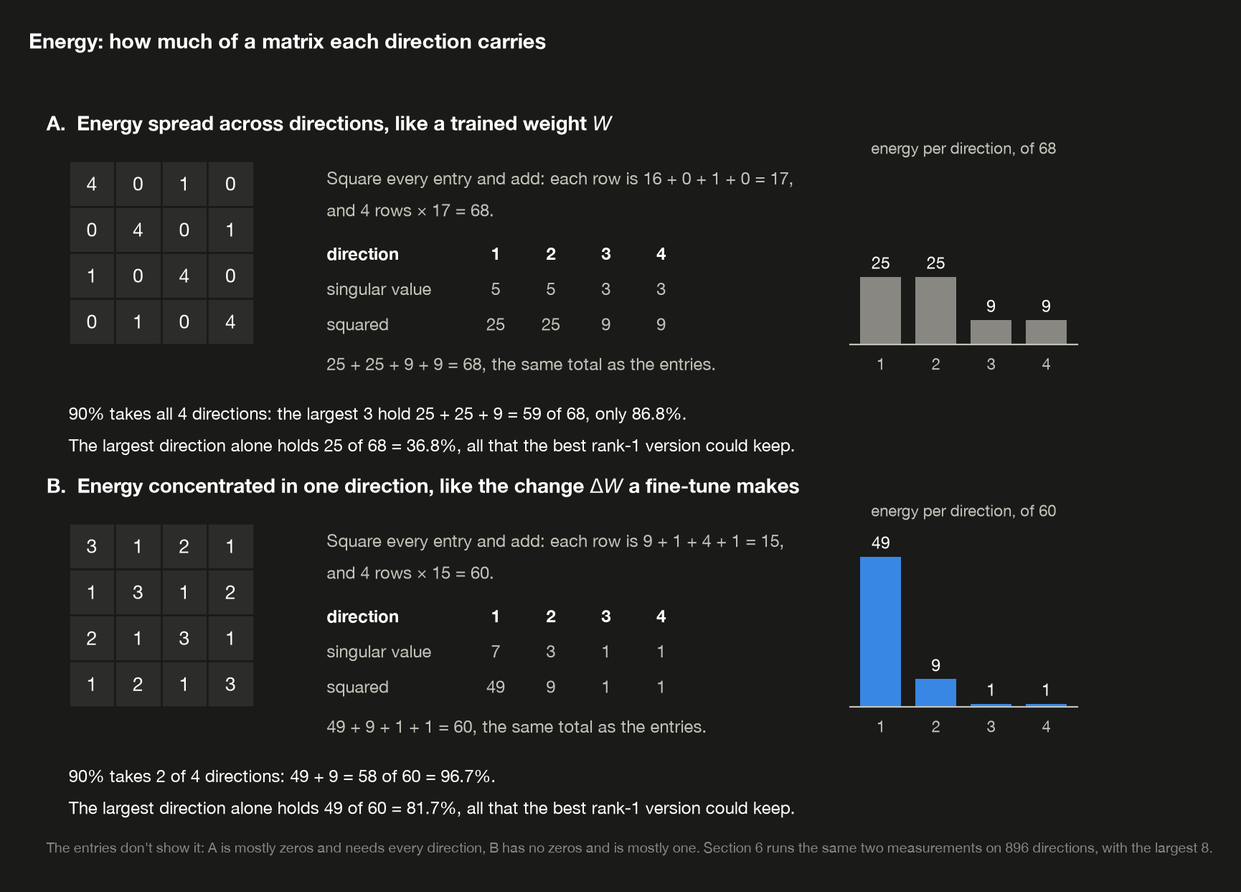
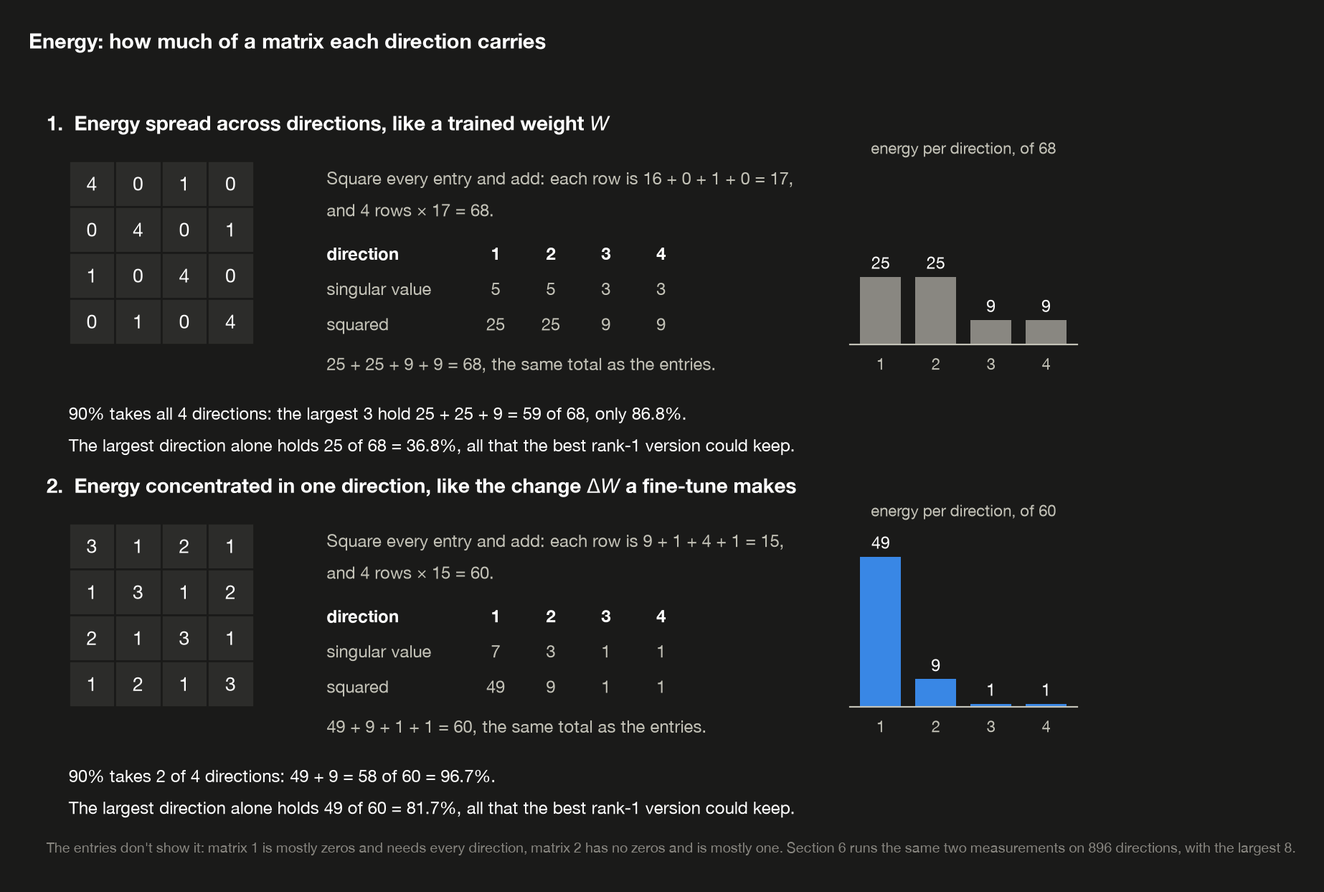
Post 6: end-to-end read for a first-time reader
Accuracy: AdamW's second moment evens out steps rather than shrinking big
ones; Kalajdzievski's argument is about fixed alpha, which this post's
alpha = 2r sidesteps; 92 GiB fits some GPUs, so say 80 GB; a mixed batch
costs time, not compute; the no-latency claim holds only once merged;
exact match's notation row said held-out and share; optimizer state vs
training state vs model state named consistently.
Grounding: rank 'behaves like' capacity; forgetting and full-fine-tune
claims scoped to these runs; AdaLoRA and vLLM cited where named.
Readability: §3's figure paragraph split into six; energy figure's
matrices numbered so they don't collide with LoRA's A and B; post 2
linked; RMSNorm (undefined here) replaced in the appendix.

diff --git a/_posts/2026-09-26-llm-architectures-lora.md b/_posts/2026-09-26-llm-architectures-lora.md
@@ -34,7 +34,7 @@ Three findings are about cost:
 
 - **The adapter is 0.89% of the model**: 4,399,104 parameters, **16.8 MiB** ([§3](#where-the-adapters-go)).
 - **But model-state memory falls 3.9×, not 112×.** The gradients and optimizer state go away; the frozen weights don't, and under this post's fp32 accounting that keeps the saving below 4×. That counts weights, gradients and optimizer moments only; activations come on top ([§4](#where-memory-goes)).
-- **And a step gets about three times faster, not a hundred.** The backward pass still carries the gradient through every frozen weight, and most of the time saved is the optimizer's ([§4](#what-training-costs)).
+- **And a step gets about three times faster, not a hundred.** The backward pass still carries the gradient through every frozen weight, and most of the time saved is the optimizer's ([§4](#where-the-time-goes)).
 
 Three are about what rank buys:
 
@@ -44,9 +44,9 @@ Three are about what rank buys:
 
 And three are about living with it:
 
-- **On these tasks LoRA didn't forget less.** At the learning rate each needs, a rank-8 adapter and a full fine-tune disturbed unrelated text about equally. Forgetting grew with rank, and a full fine-tune at LoRA's learning rate wrecked it ([§6](#what-it-forgot)).
+- **On these tasks LoRA didn't forget less.** At the learning rate each needs, a rank-8 adapter disturbed unrelated text about as much as a full fine-tune did, and slightly more on one task. Forgetting grew with rank, and a full fine-tune at LoRA's learning rate wrecked it ([§6](#what-it-forgot)).
 - **Merging is exact enough to be free.** Folding the adapter into the weights moves the largest logit by 2.6e-06 of its size and doesn't change the predicted token. Kept separate, it costs 1.16× to 1.21× a merged forward pass ([§7](#merging)).
-- **Fifty fine-tunes cost 92.0 GiB; fifty adapters over one base cost 2.66 GiB**, **34.6× less**. One batch can serve several adapters at once, for about a fifth more compute per forward pass ([§8](#fifty-finetunes)).
+- **Fifty fine-tunes cost 92.0 GiB; fifty adapters over one base cost 2.66 GiB**, **34.6× less**. One batch can serve several adapters at once, for about a fifth more time per forward pass ([§8](#fifty-finetunes)).
 
 ### The thing that makes fine-tuning expensive
 
@@ -54,7 +54,7 @@ Training keeps three more numbers for every parameter, on top of the weight itse
 
 The **gradient** is the first: for each weight, a number saying which way a small change would make the model's error worse, and by how much, computed from how wrong the model was on the current batch. Training steps each weight the opposite way. It's one number per weight, so it takes as much memory as the weights do.
 
-The other two belong to the optimizer, the rule that turns gradients into changes to the weights. **AdamW**, the optimizer almost everything uses, keeps two running averages for every weight, and they do different jobs. The running average of the gradient (its "first moment") smooths the *direction*: a raw gradient is noisy, one batch says move left and the next says move right, and averaging cancels the flip-flopping. The running average of the gradient *squared* (its "second moment") sets each weight's *step size*: AdamW divides each step by its square root, so a weight whose gradients run large takes proportionally smaller steps, and one whose gradients run small takes larger ones. That's two more numbers per parameter.
+The other two belong to the optimizer, the rule that turns gradients into changes to the weights. **AdamW**, the optimizer almost everything uses, keeps two running averages for every weight, and they do different jobs. The running average of the gradient (its "first moment") smooths the *direction*: a raw gradient is noisy, one batch says move left and the next says move right, and averaging cancels the flip-flopping. The running average of the gradient *squared* (its "second moment") sets each weight's *step size*: AdamW divides each step by its square root, which scales every weight's step to the size of its own gradients: a weight whose gradients run large isn't moved further just because of that, and one whose gradients run small isn't left behind. That's two more numbers per parameter.
 
 So a full fine-tune holds four model-sized blocks of memory, the weights, the gradient and the two moments, before it stores a single activation from the forward pass. They're only the same size when every number is stored in the same precision, and this post keeps them all in fp32, 4 bytes each, so the rest of it calls them **four copies** of the model for short. [§1](#where-a-fine-tunes-cost-is) measures it: **7.36 GiB** for a model whose weights are 1.84 GiB. The usual large-scale setup, mixed precision, stores the weights and gradients in 2-byte bf16 but keeps the moments, and usually a master copy of the weights, in 4-byte fp32. That comes to about 16 bytes per parameter, eight times the bf16 weights rather than four.
 
@@ -174,7 +174,7 @@ Now the training bill. Every parameter needs a gradient and AdamW's two moments,
 
 Reading down it: 494,032,768 parameters at 4 bytes each is 1,976,131,072 bytes, which is **1.84 GiB**, and that same figure appears four times because the gradient, the first moment and the second moment each hold one number per parameter exactly as the weights do. Four copies is **7.36 GiB**, and that's before the backward pass stores a single activation.
 
-**The model is a quarter of its own training bill.** That's the number LoRA is aimed at, and it's the interesting target because you can't avoid holding the weights, since the forward pass needs them. You *can* avoid the other three copies, if you can arrange for almost no parameters to be trainable.
+**The model is a quarter of its own training bill**, counting model state only (activations come on top). That's the number LoRA is aimed at, and it's the interesting target because you can't avoid holding the weights, since the forward pass needs them. You *can* avoid the other three copies, if you can arrange for almost no parameters to be trainable.
 
 ### 2. The mechanism: W plus a rank-8 update {#the-mechanism}
 
@@ -234,7 +234,17 @@ An adapter is attached to a matrix, so "using LoRA" means choosing *which* matri
 ![Where the adapters go in Qwen2.5-0.5B: the whole model on the left, one decoder layer opened up on the right with an adapter beside each of its seven projection matrices, and a to-scale strip of the model's parameters](/assets/picture/2026-09-26-llm-architectures-lora/adapter-placement-light.png){: .light width="1000" height="1060" }
 ![Where the adapters go in Qwen2.5-0.5B: the whole model on the left, one decoder layer opened up on the right with an adapter beside each of its seven projection matrices, and a to-scale strip of the model's parameters](/assets/picture/2026-09-26-llm-architectures-lora/adapter-placement-dark.png){: .dark width="1000" height="1060" }
 
-On the left is the whole model, top to bottom: the embedding table turns token ids into vectors, 24 identical decoder layers transform them, a final norm rescales the result, and the output head turns it into a score for every token in the vocabulary. The embedding table and the output head are **tied**: two parts of the model share one matrix. On the way in, a token id picks out one row of it, 896 numbers, as that token's vector. On the way out, the final vector is compared with every row: multiply the two entry by entry and add up the 896 products, and the result is that row's token's score, high when the vector and the row point the same way. The scores then become probabilities for the next token. The final norm comes just before that comparison: after 24 layers that each add their result back on, the vector can be any size, so the norm divides it by its typical entry size and multiplies each entry by a learned weight (896 numbers, all it has), and the vector arrives at the head at a predictable size. Because one matrix of 151,936 rows does both the reading in and the scoring out, the model stores it once. On the right, one of those 24 layers is opened up. Each blue badge is an adapter, attached to one of the seven projection matrices and labelled with how many numbers it holds; attention's four go by their code names there, `q_proj` for $W_q$ and so on. Everything gray is frozen and gets no adapter: the two norms, the small bias vectors on `q_proj`, `k_proj` and `v_proj`, and the embedding table. Two steps have no weights at all, so there's nothing in them to adapt. One is attention itself. The other is the MLP's middle step: `gate_proj` and `up_proj` each turn the 896 numbers into 4,864, each gate number passes through a smooth on/off switch (SiLU, which leaves large positive numbers nearly unchanged and pushes negative ones toward zero), and the result multiplies the up number in the same position. Each gate number acts as a dimmer on one up number, set by the input itself; [post 1](/posts/llm-architectures-attention-and-rope/#the-ffn) explains why that works better than a fixed rule. The lines down the left edge carry each half's input around it and add it back afterwards, as in every transformer block [post 1](/posts/llm-architectures-attention-and-rope/) took apart. The strip at the bottom puts the whole thing to scale.
+On the left is the whole model, top to bottom: the embedding table turns token ids into vectors, 24 identical decoder layers transform them, a final norm rescales the result, and the output head turns it into a score for every token in the vocabulary.
+
+The embedding table and the output head are **tied**: two parts of the model share one matrix. On the way in, a token id picks out one row of it, 896 numbers, as that token's vector. On the way out, the final vector is compared with every row: multiply the two entry by entry and add up the 896 products, and the result is that row's token's score, high when the vector and the row point the same way. The scores then become probabilities for the next token.
+
+The final norm comes just before that comparison: after 24 layers that each add their result back on, the vector can be any size, so the norm divides it by its typical entry size and multiplies each entry by a learned weight (896 numbers, all it has), and the vector arrives at the head at a predictable size. Because one matrix of 151,936 rows does both the reading in and the scoring out, the model stores it once.
+
+On the right, one of those 24 layers is opened up. Each blue badge is an adapter, attached to one of the seven projection matrices and labeled with how many numbers it holds; attention's four go by their code names there, `q_proj` for $W_q$ and so on. Everything gray is frozen and gets no adapter: the two norms, the small bias vectors on `q_proj`, `k_proj` and `v_proj`, and the embedding table.
+
+Two steps have no weights at all, so there's nothing in them to adapt. One is attention itself. The other is the MLP's middle step: `gate_proj` and `up_proj` each turn the 896 numbers into 4,864, each gate number passes through a smooth on/off switch (SiLU, which leaves large positive numbers nearly unchanged and pushes negative ones toward zero), and the result multiplies the up number in the same position. Each gate number acts as a dimmer on one up number, set by the input itself; [post 1](/posts/llm-architectures-attention-and-rope/#the-ffn) explains why that works better than a fixed rule.
+
+The lines down the left edge carry each half's input around it and add it back afterwards, as in every transformer block [post 1](/posts/llm-architectures-attention-and-rope/) took apart. The strip at the bottom puts the whole thing to scale.
 
 The badge sizes come from the census ([`where_the_adapters_go`](https://github.com/bearbearyu1223/llm-architectures-refresher/blob/main/src/llmrefresher/demos/d06_lora.py)):
 
@@ -253,7 +263,7 @@ The badge sizes come from the census ([`where_the_adapters_go`](https://github.c
 
 Each row is one kind of matrix and how many of them there are, one per layer. The `each` column is $r \times (d_{in} + d_{out})$ from §2: for `q_proj` that's $8 \times (896 + 896) = 14{,}336$, and for `down_proj`, which takes 4,864 numbers in and puts 896 out, it's $8 \times (4864 + 896) = 46{,}080$. Multiply by 24 layers and add up the seven kinds to get **4,399,104**.
 
-Adapting all seven is the choice the [QLoRA paper](https://arxiv.org/abs/2305.14314) recommends, and [§5](#where-adapters-pay) tests it on this model. The MLP rows are the big ones, because the MLP's matrices are the wide ones, and they're three of the seven. And `k_proj` and `v_proj` are much narrower than `q_proj`, at 896 × 128 rather than 896 × 896, because Qwen2.5-0.5B uses **grouped-query attention**: it has 14 query heads but only 2 key/value heads, so the key and value projections produce a seventh as many numbers. Post 2 is where that shows up as a memory saving; here it shows up as a smaller adapter.
+Adapting all seven is the choice the [QLoRA paper](https://arxiv.org/abs/2305.14314) recommends, and [§5](#where-adapters-pay) tests it on this model. The MLP rows are the big ones, because the MLP's matrices are the wide ones, and they're three of the seven. And `k_proj` and `v_proj` are much narrower than `q_proj`, at 896 × 128 rather than 896 × 896, because Qwen2.5-0.5B uses **grouped-query attention**: it has 14 query heads but only 2 key/value heads, so the key and value projections produce a seventh as many numbers. [Post 2](/posts/llm-architectures-kv-cache/) is where that shows up as a memory saving; here it shows up as a smaller adapter.
 
 What that comes to against the model ([`where_the_adapters_go`](https://github.com/bearbearyu1223/llm-architectures-refresher/blob/main/src/llmrefresher/demos/d06_lora.py) again):
 
@@ -517,7 +527,7 @@ On `recall`, the exact-match column is the wrong one to read, and the three seed
 
 **The loss is where rank shows up.** On `recall` the median final loss falls from `1.56e-01` at rank 1 to `3.99e-04` at rank 16, about 390 times lower. Rank 1 gets nearly every fact over the line but holds them loosely, and each step up holds them more firmly. The same climb on `format` buys nothing. The adapter is buying somewhere to put the facts.
 
-The pattern behind it is what transfers to a task this post didn't run. A **rule** has to be *found*, and once found it applies to every example, so what the adapter stores is one procedure. The capacity that takes is small and largely independent of how many examples you have. **Arbitrary facts** have to be *stored*, one at a time, and 64 of them need more room than 1 does. Rank is capacity, and only the second kind of task is shopping for it.
+The pattern behind it is what transfers to a task this post didn't run. A **rule** has to be *found*, and once found it applies to every example, so what the adapter has to hold is one procedure, however many examples teach it. **Arbitrary facts** have to be *stored*, one at a time, and 64 of them need more room than 1 does. Rank behaves like capacity here, and only the second kind of task needed more of it.
 
 This is also why the original paper's headline about rank isn't the contradiction it might look like. [Hu et al.](https://arxiv.org/abs/2106.09685) report in §7.2 that "a rank as small as one suffices for adapting both $W_q$ and $W_v$ on these datasets", and their datasets are WikiSQL and MultiNLI, which are rule-shaped in exactly this sense. Their result and this post's `format` result are the same result. The `recall` column is what that headline doesn't cover.
 
@@ -539,7 +549,7 @@ On `recall` the loss rises at rank 32, from `3.99e-04` at rank 16 to `1.20e-02`,
   data, same order; the longer runs keep going 400 more steps.
 ```
 
-At 600 steps rank 32 reaches `8.28e-05`, level with ranks 8 and 16. The rise was the step count, not the rank. A rank sweep measures rank *and* everything held fixed alongside it, and a fixed step budget favours the adapters with less to settle. [Kalajdzievski](https://arxiv.org/abs/2312.03732) argues the $\alpha/r$ scaling used here makes that worse, because dividing by $r$ shrinks a high-rank adapter's updates enough to slow its learning, and proposes $\alpha/\sqrt{r}$ instead.
+At 600 steps rank 32 reaches `8.28e-05`, level with ranks 8 and 16. The rise was the step count, not the rank. A rank sweep measures rank *and* everything held fixed alongside it, and a fixed step budget favors the adapters with less to settle. How the scaling should depend on rank is a separate, open question: [Kalajdzievski](https://arxiv.org/abs/2312.03732) argues that with $\alpha$ held fixed, dividing by $r$ shrinks a high-rank adapter's updates enough to slow its learning, and proposes $\alpha/\sqrt{r}$ instead. This post sidesteps that by setting $\alpha = 2r$, so the scale is 2.0 at every rank, which means its sweep doesn't test his proposal either way.
 
 #### Where the adapters pay {#where-adapters-pay}
 
@@ -565,7 +575,7 @@ So on this task and this model, the measurement supports something narrower than
 
 ### 6. Why the update can be low-rank when the weights are not {#why-low-rank-works}
 
-Now the question the whole method rests on. A rank-8 change to a 896 × 896 matrix is an extremely restricted thing to be allowed to do. Why should it be enough?
+Now the question the whole method rests on. A rank-8 change to an 896 × 896 matrix is an extremely restricted thing to be allowed to do. Why should it be enough?
 
 The usual answer is that the change fine-tuning needs to make is *itself* low-rank, so nothing is lost by only being able to draw low-rank changes. [Hu et al.](https://arxiv.org/abs/2106.09685) put it as a hypothesis in their §1: "the change in weights during model adaptation also has a low intrinsic rank." A hypothesis is exactly the kind of thing this series should measure rather than repeat.
 
@@ -573,10 +583,10 @@ So measure it. Fine-tune the model **fully**, with no low-rank constraint anywhe
 
 Reading singular values needs one more idea on top of [§2](#the-mechanism)'s. Square every entry of a matrix and add them up, and you get a single number for how big the matrix is overall, which this post calls its **energy**. The useful fact is that the energy splits exactly across the matrix's independent directions: square each singular value, and those squares add up to the same total. So each direction carries a measurable share of the matrix, its singular value squared over the sum of all of them. A matrix whose energy sits almost entirely in a few directions behaves like a low-rank matrix even when its other singular values aren't exactly zero, because those directions carry almost nothing.
 
-![Energy worked through on two 4 by 4 matrices: one spreads its energy over all four directions and needs all of them for 90%, the other puts 49 of its 60 in one direction and needs two](/assets/picture/2026-09-26-llm-architectures-lora/energy-explained-light.png){: .light width="1000" height="719" }
-![Energy worked through on two 4 by 4 matrices: one spreads its energy over all four directions and needs all of them for 90%, the other puts 49 of its 60 in one direction and needs two](/assets/picture/2026-09-26-llm-architectures-lora/energy-explained-dark.png){: .dark width="1000" height="719" }
+![Energy worked through on two 4 by 4 matrices: one spreads its energy over all four directions and needs all of them for 90%, the other puts 49 of its 60 in one direction and needs two](/assets/picture/2026-09-26-llm-architectures-lora/energy-explained-light.png){: .light width="1000" height="673" }
+![Energy worked through on two 4 by 4 matrices: one spreads its energy over all four directions and needs all of them for 90%, the other puts 49 of its 60 in one direction and needs two](/assets/picture/2026-09-26-llm-architectures-lora/energy-explained-dark.png){: .dark width="1000" height="673" }
 
-The figure works this through on two small matrices with four directions each. Square the entries of either one and add them up, then do the same with its singular values, and you get the same total both ways: 68 for A, 60 for B. From there it makes the two measurements this section is about to make on the real model. The first is how many directions it takes to reach 90% of the energy. The second is how much the largest direction holds on its own, which is also how much the best possible rank-1 version of the matrix would keep. A spreads its energy fairly evenly and needs all four directions. B puts 49 of its 60 in one direction and passes 90% with two. You can't tell which is which from the entries, either: A is mostly zeros, and B has none.
+The figure works this through on two small matrices with four directions each. Square the entries of either one and add them up, then do the same with its singular values, and you get the same total both ways: 68 for matrix 1, 60 for matrix 2. From there it makes the two measurements this section is about to make on the real model. The first is how many directions it takes to reach 90% of the energy. The second is how much the largest direction holds on its own, which is also how much the best possible rank-1 version of the matrix would keep. Matrix 1 spreads its energy fairly evenly and needs all four directions. Matrix 2 puts 49 of its 60 in one direction and passes 90% with two. You can't tell which is which from the entries, either: matrix 1 is mostly zeros, and matrix 2 has none. (The figure numbers them rather than lettering them so they aren't confused with LoRA's $A$ and $B$.)
 
 Here are the same two measurements on the real model, where a matrix has up to 896 directions instead of 4. The first asks how many directions it takes to account for 90% of a matrix ([`why_the_update_is_low_rank`](https://github.com/bearbearyu1223/llm-architectures-refresher/blob/main/src/llmrefresher/demos/d06_lora.py)):
 
@@ -653,13 +663,13 @@ The change really is *far* more concentrated than the weight it modifies. Across
 
 But it is not rank 8, and it isn't close. If LoRA's job were to reproduce what a full fine-tune does, rank 8 would capture around three fifths of it and miss the rest.
 
-The resolution is that reproducing the full fine-tune was never the job. A full fine-tune finds *one* way to solve the task, out of many, and it has no reason to look for a tidy one: every direction is free to it, so it uses them. LoRA is asked a different question — is there a rank-8 change that solves the task? — and [§5](#what-rank-buys) answers it by finding one. **"The update is low-rank" is the wrong claim. "A low-rank update suffices" is the right one**, and only the second is what the measurements support.
+The resolution is that reproducing the full fine-tune was never the job. A full fine-tune finds *one* way to solve the task, out of many, and it has no reason to look for a tidy one: every direction is free to it, so it uses them. LoRA is asked a different question, whether there's a rank-8 change that solves the task, and [§5](#what-rank-buys) answers it by finding one. **"The update is low-rank" is the wrong claim. "A low-rank update suffices" is the right one**, and only the second is what the measurements support.
 
 That distinction stops being academic as soon as a task gets harder. [Biderman et al.](https://arxiv.org/abs/2405.09673) measured the same gap at real scale and found it matters: fine-tuning on programming and mathematics, "full finetuning learns perturbations with a rank that is 10-100X greater than typical LoRA configurations", and in those settings LoRA "substantially underperforms full finetuning". The compensation they report is on the other side of the ledger, and it follows from the same constraint: LoRA "better maintains the base model's performance on tasks outside the target domain", because a change restricted to a few directions is a change that disturbs less of what was already there. This post's two tasks are both easy enough that the gap never bites. That is a fact about the tasks. The forgetting half can be measured here, and [the end of this section](#what-it-forgot) does.
 
 Two smaller results in those tables.
 
-**The MLP's updates are markedly higher-rank than attention's.** Across all 24 layers of the `format` fine-tune, attention's four kinds of matrix have medians of 33 to 59 directions for 90% of their change; the MLP's three have 187 to 203. The `recall` fine-tune shows the same split at lower numbers. So "how low-rank is the update" isn't one number for a model, it's a number per kind of matrix, and the wide ones are the stubborn ones. That bears directly on where adapters should go, and [§5](#where-adapters-pay) points the same way: adapters on the MLP alone did as well as adapters on all seven, while attention alone at rank 8 fell well short.
+**The MLP's updates are markedly higher-rank than attention's.** Across all 24 layers of the `format` fine-tune, attention's four kinds of matrix have medians of 33 to 59 directions for 90% of their change; the MLP's three have 187 to 203. That isn't just because `k_proj` and `v_proj` are narrow: `q_proj` and `o_proj` have the same 896 directions available as the MLP's matrices, and their changes still need only 59 and 57. The `recall` fine-tune shows the same split at lower numbers. So "how low-rank is the update" isn't one number for a model, it's a number per kind of matrix, and the wide ones are the stubborn ones. That bears directly on where adapters should go, and [§5](#where-adapters-pay) points the same way: adapters on the MLP alone did as well as adapters on all seven, while attention alone at rank 8 fell well short.
 
 **And depth changes the answer, for the weight as much as for the change.** Here is `q_proj` at four depths, from the same [`why_the_update_is_low_rank`](https://github.com/bearbearyu1223/llm-architectures-refresher/blob/main/src/llmrefresher/demos/d06_lora.py):
 
@@ -672,7 +682,7 @@ Two smaller results in those tables.
   layer 23       239              43              35
 ```
 
-Layer 0's weight needs only 55 directions for 90% of itself, against 321 at layer 8 and 239 at the last layer: the first layer's weight is a simpler object than the ones above it. Its change is the lowest-rank of the four too, at 28 directions for `format` and 18 for `recall`. Nothing in that column suggests one rank is right for every layer, which is what per-layer rank allocation methods exist to exploit.
+Layer 0's weight needs only 55 directions for 90% of itself, against 321 at layer 8 and 239 at the last layer: the first layer's weight is a simpler object than the ones above it. Its change is the lowest-rank of the four too, at 28 directions for `format` and 18 for `recall`. Nothing in that column suggests one rank is right for every layer, which is what per-layer rank allocation methods such as [AdaLoRA](https://arxiv.org/abs/2303.10512) exist to exploit.
 
 A last note on what this measurement is *not*. [Shuttleworth et al.](https://arxiv.org/abs/2410.21228) run a spectral analysis that sounds similar and asks something different: they look at the singular vectors of the *resulting weight matrix*, not of the change, and find that LoRA introduces "new, high-ranking singular vectors, which we call intruder dimensions" that a full fine-tune doesn't, then show by intervening on them that those dimensions cause forgetting. That's a claim about how the two methods differ in where they leave the model, and this section's measurement, which is about the shape of the change a full fine-tune makes, neither supports nor contradicts it. They're worth reading together, and easy to conflate.
 
@@ -697,7 +707,7 @@ Biderman et al.'s title makes two claims, *learns less* and *forgets less*, and 
 
 Every model in the table learned its task completely, 40 of 40, so a difference in the `passage` column isn't a difference in how well the task was learned.
 
-**On these tasks, LoRA did not forget less.** On `format` the two land a tenth of a point apart, 21.28 against 21.18. On `recall` the rank-8 adapter moved the passage *more* than the full fine-tune did, +7.9% against +5.8%. Each method ran at the learning rate it needs, and that condition matters. At LoRA's rate, [§4](#what-training-costs) showed the full fine-tune taking the passage to 65,115. A full fine-tune avoids forgetting by taking small steps.
+**On these tasks, LoRA did not forget less.** On `format` the two land a tenth of a point apart, 21.28 against 21.18. On `recall` the rank-8 adapter moved the passage *more* than the full fine-tune did, +7.9% against +5.8%. Each method ran at the learning rate it needs, and that condition matters. At LoRA's rate, [§4](#what-training-costs) showed the full fine-tune taking the passage to 65,115. At its own small learning rate, the full fine-tune disturbed the passage only a little.
 
 Two things keep this from contradicting Biderman et al. Their fine-tunes ran on billions of tokens of programming and mathematics, far enough to move a model a long way; these ran 200 steps on toy tasks, where neither method moves it far. And [§5](#what-rank-buys)'s `passage` column shows the variable their result turns on: forgetting climbs with rank, from 21.60 at rank 1 to 25.39 at rank 32 on `recall`. A lower-rank adapter forgets less than a higher-rank one, here as there. What a model this small, trained this briefly, can't show is how rank 8 compares with a full fine-tune pushed hard enough for the difference to matter.
 
@@ -761,7 +771,7 @@ Here's the situation LoRA is actually deployed for. You have one model and fifty
   whole copies / shared base               34.6x  more memory
 ```
 
-**92.0 GiB against 2.66 GiB, a factor of 34.6.** Fifty whole models don't fit on one card; one model and fifty 16.8 MiB adapters barely notice each other. That ratio is the entire commercial argument for LoRA, and it gets better with the number of adapters, since each new customer costs 16.8 MiB instead of 1.84 GiB.
+**92.0 GiB against 2.66 GiB, a factor of 34.6.** Fifty whole models need more memory than an 80 GB GPU has; one model and fifty 16.8 MiB adapters barely notice each other. That ratio is the main serving argument for LoRA, and it gets better with the number of adapters, since each new customer costs 16.8 MiB instead of 1.84 GiB.
 
 The catch is the one §7 set up. **You can only merge one adapter at a time.** Merging customer A's update into $W$ produces a model that is customer A's, and a request from customer B now has to unmerge it and merge a different one, which is a pass over 358 million parameters between requests. That's fine if requests arrive in long runs per customer, and useless if they interleave.
 
@@ -787,7 +797,7 @@ The demo does it the simplest correct way. It loads the rank-8 adapters §5 trai
 
 Both rows give the answer their own adapter gives when served alone, and both are right. The `swapped` column is the control: the same batch with the two routes exchanged hands the date to the facts adapter and the question to the dates adapter, and both answers turn to nonsense. The answers come from the routing, not from the prompts.
 
-The bottom table is the price. A mixed batch costs **1.22×** a merged forward pass on prefill and **1.22×** on decode, slightly more than one unmerged adapter, the difference being the gather. That's the running cost behind the 34.6×: fifty customers fit in 2.66 GiB, and every forward pass they share runs about a fifth slower than one merged model would. S-LoRA's custom kernels exist to shrink that fifth.
+The bottom table is the price. A mixed batch costs **1.22×** a merged forward pass on prefill and **1.22×** on decode, slightly more than one unmerged adapter, the difference being the gather. That's the running cost behind the 34.6×: fifty customers fit in 2.66 GiB, and every forward pass they share takes about a fifth longer than one merged model's would. S-LoRA's custom kernels exist to shrink that fifth.
 
 Post 5 ended on a version of this same shape, so put the two side by side. There, per-token sparsity was real and batch sparsity wasn't, because a batch needs the union of what its tokens want. Here, the single-adapter saving is real and the multi-adapter saving is smaller than it looks, because a batch needs the union of what its *requests* want. Batching is where clean per-item stories go to be complicated.
 
@@ -795,11 +805,11 @@ Post 5 ended on a version of this same shape, so put the two side by side. There
 
 **LoRA does not make the model cheaper to hold; it makes the *update* cheap.** The frozen weights are still resident during training, so model-state memory (weights, gradients and optimizer moments) falls by 3.9× while the trainable parameter count falls by 112×. Post 5's lesson in a new place: the number in the headline and the number on the invoice measure different resources.
 
-**What rank you need is a property of the task, not of the method.** A rule that applies to every example was learned perfectly at rank 1. Sixty-four arbitrary facts kept getting firmer up to rank 16. Neither number transfers to your problem, and the useful move is to sweep, which is affordable: each run in §5 took about a third of a full fine-tune's time per step and a quarter of its memory. Run each rank more than once, too, because at this scale the seed moved exact match as much as rank did.
+**What rank you need is a property of the task, not of the method.** A rule that applies to every example was learned perfectly at rank 1. Sixty-four arbitrary facts kept getting firmer up to rank 16. Neither number transfers to your problem, and the useful move is to sweep, which is affordable: each run in §5 took about a third of a full fine-tune's time per step and a quarter of its model-state memory. Run each rank more than once, too, because at this scale the seed moved exact match as much as rank did.
 
-**"The update is low-rank" is not what the measurement says.** What a full fine-tune actually does to a matrix is high-rank. What §5 shows is that a low-rank update can reach the same behaviour, which is a claim about the existence of a good solution, not about the shape of the one gradient descent finds unaided. [Biderman et al.](https://arxiv.org/abs/2405.09673) found the gap matters most exactly where these two tasks were easiest: on domains far from what the base model already knows.
+**"The update is low-rank" is not what the measurement says.** What a full fine-tune actually does to a matrix is high-rank. What §5 shows is that a low-rank update can reach the same behavior, which is a claim about the existence of a good solution, not about the shape of the one gradient descent finds unaided. [Biderman et al.](https://arxiv.org/abs/2405.09673) found the gap matters on programming and mathematics, tasks that ask far more of a model than these two toy ones.
 
-**And the serving story is the reason LoRA won.** One base model plus a directory of 16.8 MiB adapters is a different operational shape from fifty copies of a model, and it's why every serving stack now has a multi-adapter path. The cost is that the adapters can't be merged when a batch mixes them, which is the one place LoRA's "no additional inference latency" has an asterisk.
+**And the serving story is the reason LoRA won.** One base model plus a directory of 16.8 MiB adapters is a different operational shape from fifty copies of a model, and it's why serving systems such as [vLLM](https://docs.vllm.ai/en/latest/features/lora.html) can run many adapters over one base model. The cost is that an adapter kept unmerged runs extra multiplies on every forward pass, and a batch that mixes adapters forces exactly that: LoRA's "no additional inference latency" holds only once an adapter is merged.
 
 ### 10. Sidebar: the probe {#sidebar-the-probe}
 
@@ -815,7 +825,7 @@ Both halves are half right, and they fail in different directions.
 
 **2. And separate memory from time.** A step got about three times faster here, not a hundred. The forward pass costs the same. The backward pass still has to carry the gradient *through* every frozen weight to reach the adapters, and got only 1.6× cheaper. Most of the saving is the optimizer update that no longer touches 494 million parameters.
 
-**3. Refuse "rank 8" as a default.** This post's two tasks disagree completely about what rank buys. A systematic rule was learned perfectly at rank 1. Sixty-four arbitrary facts kept improving up to rank 16, because the capacity to store them is the thing being bought. Each sweep run costs about a third of a full fine-tune's step time and a quarter of its memory, so measure rank rather than inherit it.
+**3. Refuse "rank 8" as a default.** This post's two tasks disagree completely about what rank buys. A systematic rule was learned perfectly at rank 1. Sixty-four arbitrary facts kept improving up to rank 16, where rank behaved like room to store them. Each sweep run costs about a third of a full fine-tune's step time and a quarter of its model-state memory, so measure rank rather than inherit it.
 
 **4. Then say what serving fifty actually costs.** Fifty whole fine-tunes are 92.0 GiB of weights; fifty adapters over one shared base are 2.66 GiB, **34.6× less**. That is real, and it's the reason multi-adapter serving exists. The asterisk is that this only holds while the adapters stay *unmerged*, and an unmerged adapter costs extra work on every forward pass. A batch that mixes customers can't merge any of them, which is the case production systems are built around ([S-LoRA](https://arxiv.org/abs/2311.03285) keeps adapters in host memory and batches them with custom kernels).
 
@@ -857,7 +867,7 @@ And what the adapters leave alone, which is the model's 494,032,768 parameters m
 | not adapted | parameters |
 | --- | --- |
 | embedding table, tied to the output head | 136,134,656 |
-| RMSNorm scales, 2 per layer plus a final one | 43,904 |
+| norm weights, 2 norms per layer plus the final one, 896 each | 43,904 |
 | bias vectors on `q_proj`, `k_proj`, `v_proj` | 27,648 |
 | **total** | **136,206,208** |
 
@@ -881,11 +891,13 @@ The terms and symbols this post leans on; anything not listed is defined where i
 | full fine-tune | training every parameter, the thing LoRA is an alternative to | 494,032,768 trainable |
 | adapter | the trained $A$ and $B$ for every adapted matrix, saved as one file | 4,399,104 parameters, 16.8 MiB |
 | merging | folding $(\alpha/r)BA$ into $W$, after which no adapter is left to run | §7 |
+| loss | $-\log p$ for the probability $p$ given the correct next token, averaged over the graded positions; lower is better | 6.93 at the start of §4's runs |
 | gradient | one number per trainable parameter, saying how to change it | same size as the trainable set |
-| AdamW moments | the optimizer's two running averages, one number each per trainable parameter | 2 more copies |
-| optimizer state | gradient plus both moments: 12 bytes per trainable parameter in fp32 | 5,653.8 MiB full, 50.3 MiB LoRA |
+| AdamW moments, optimizer state | the optimizer's two running averages, one number each per trainable parameter | 2 more copies |
+| training state | gradient plus both moments: 12 bytes per trainable parameter in fp32 | 5,653.8 MiB full, 50.3 MiB LoRA |
+| model state | weights plus training state; what §4's memory table counts, leaving out activations and other runtime memory | 7,538.3 MiB full, 1,951.7 MiB LoRA |
 | GQA | grouped-query attention: fewer key/value heads than query heads | 14 query, 2 key/value |
-| exact match | the share of held-out prompts whose completion is character-for-character right | §4 and §5's score |
+| exact match | how many of the 40 test prompts get exactly the right answer under greedy decoding, after trimming spaces at the ends; unseen dates for `format`, trained facts for `recall` | §4 and §5's score |
 | seed | the fixed starting point of a random-number generator; here, what $A$'s random start is drawn from | 0, 1 and 2 in §5 |
 | perplexity | how many tokens a model is, on average, torn between when predicting a passage; lower is better | 20.87 untrained, on post 4's passage |
 | prefill, decode | reading a whole prompt in one pass, against generating one new token per sequence | §7 and §8's two timings |
